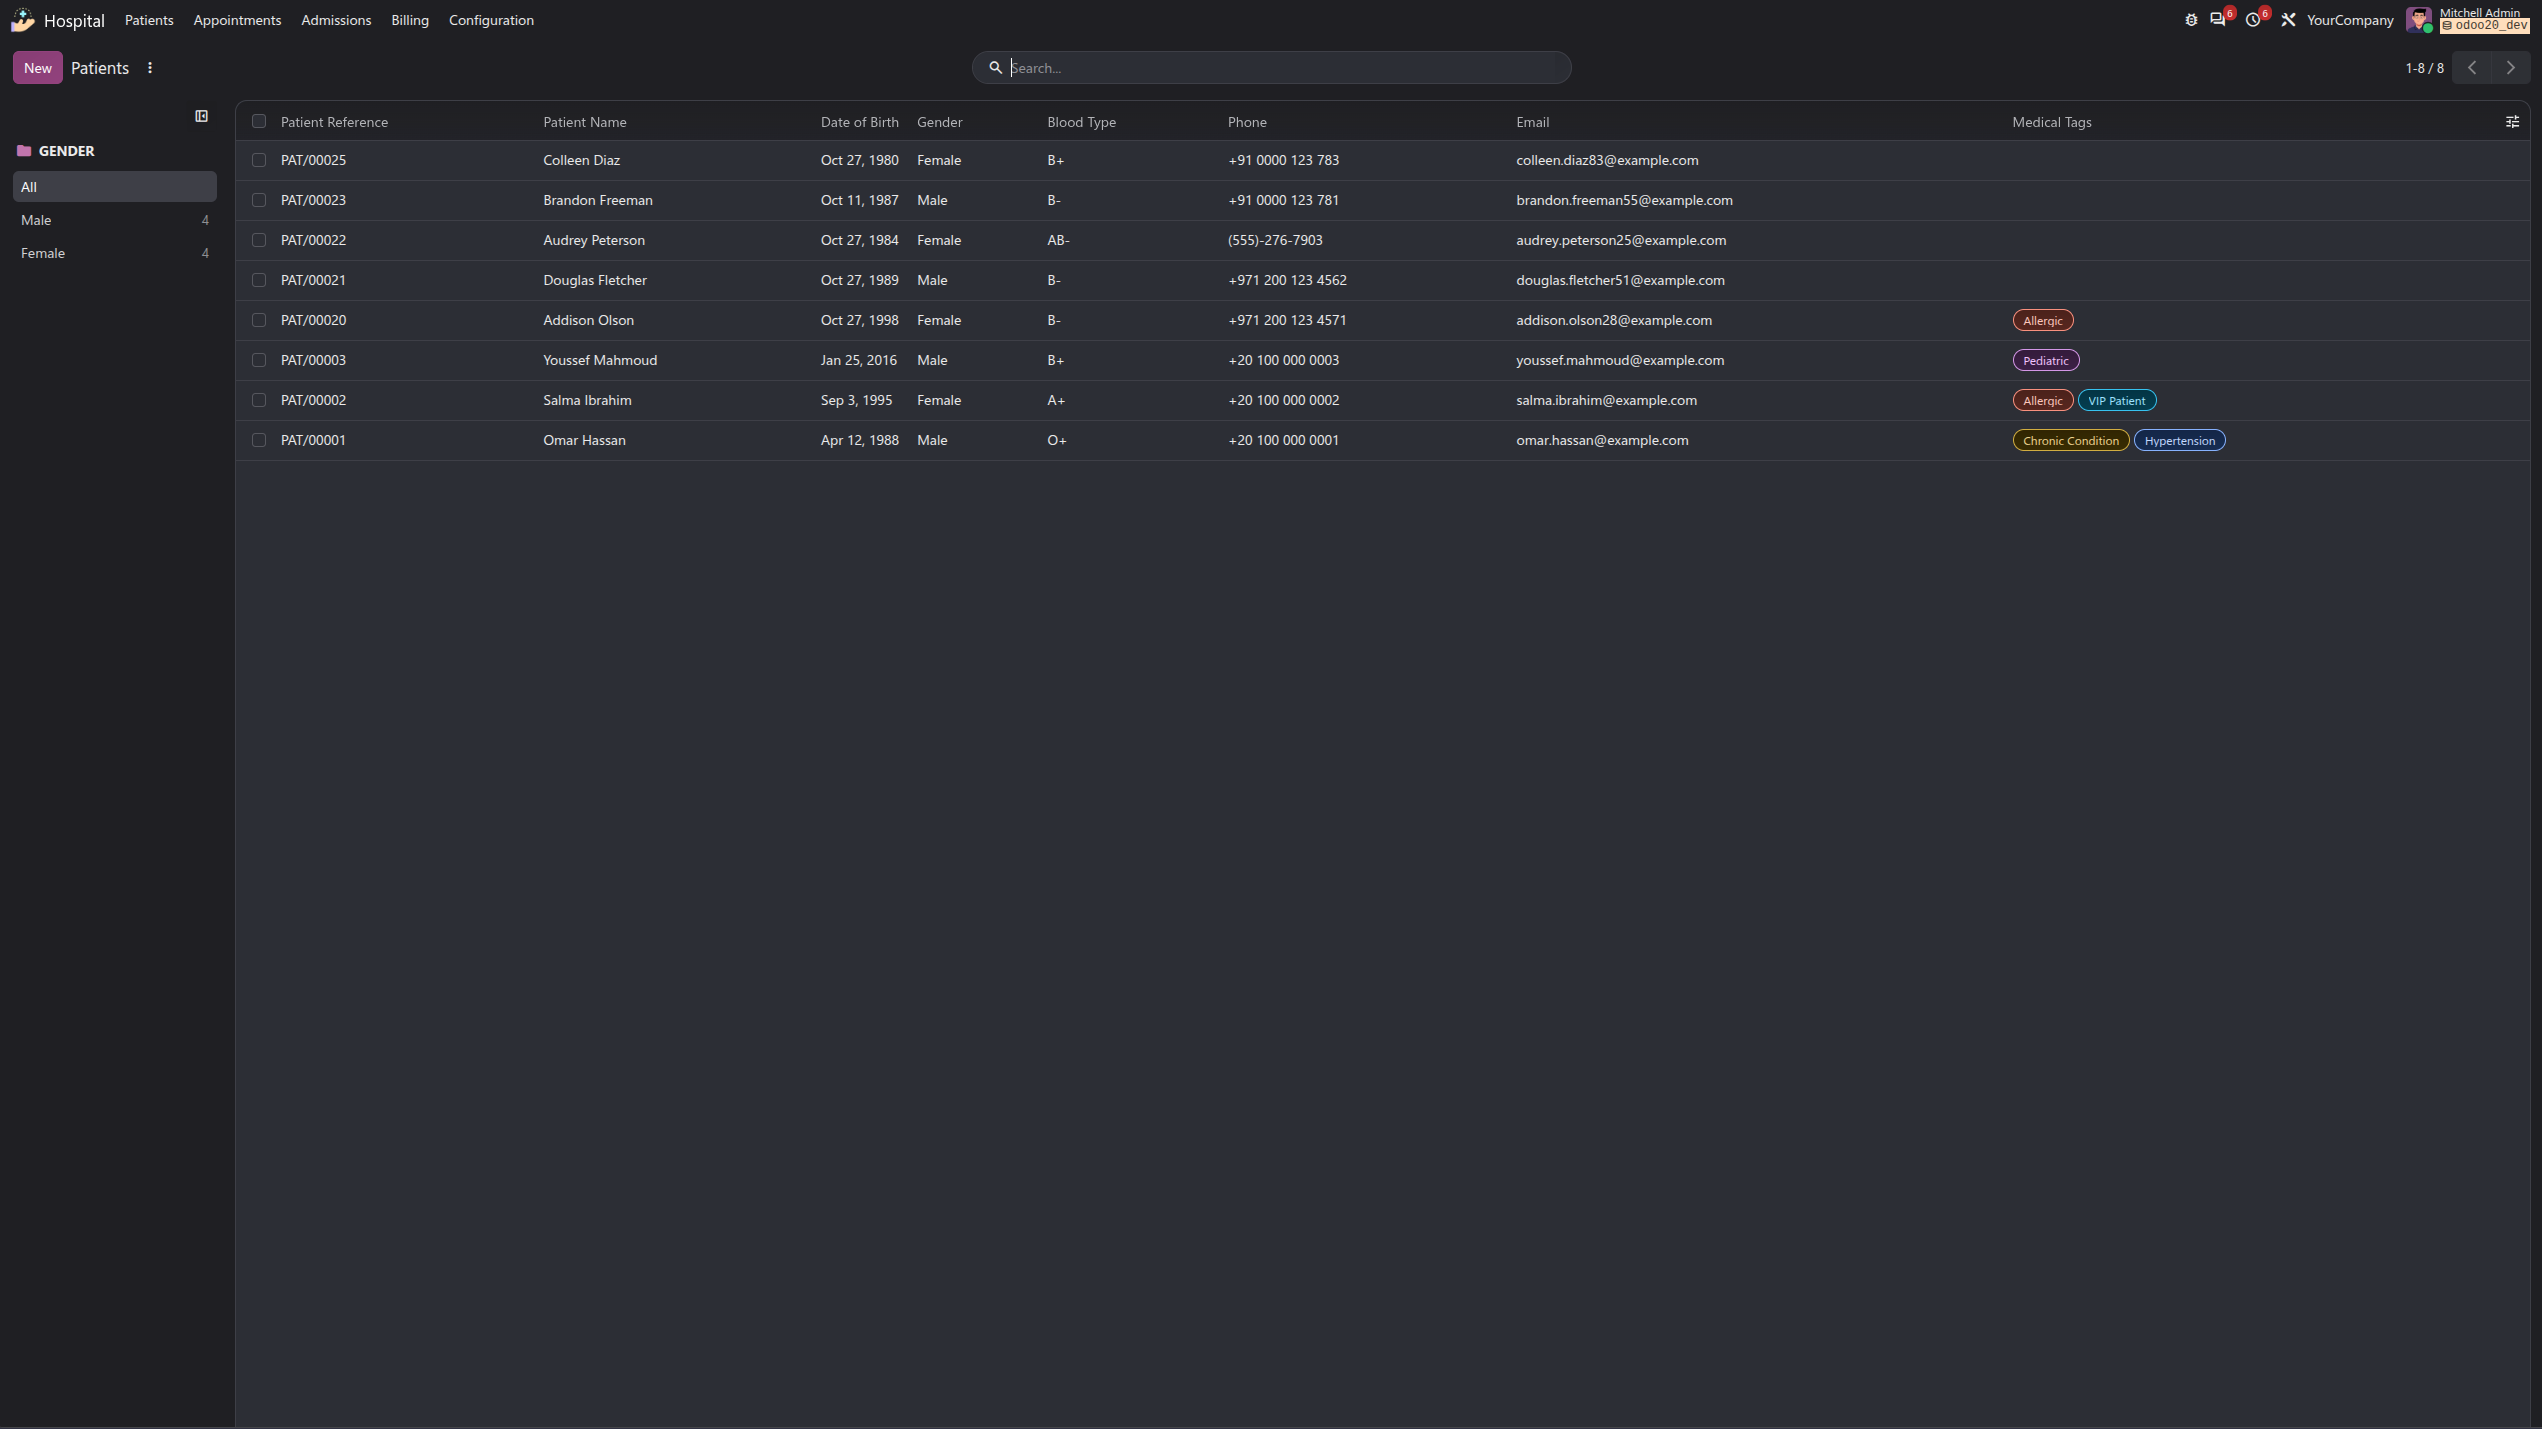
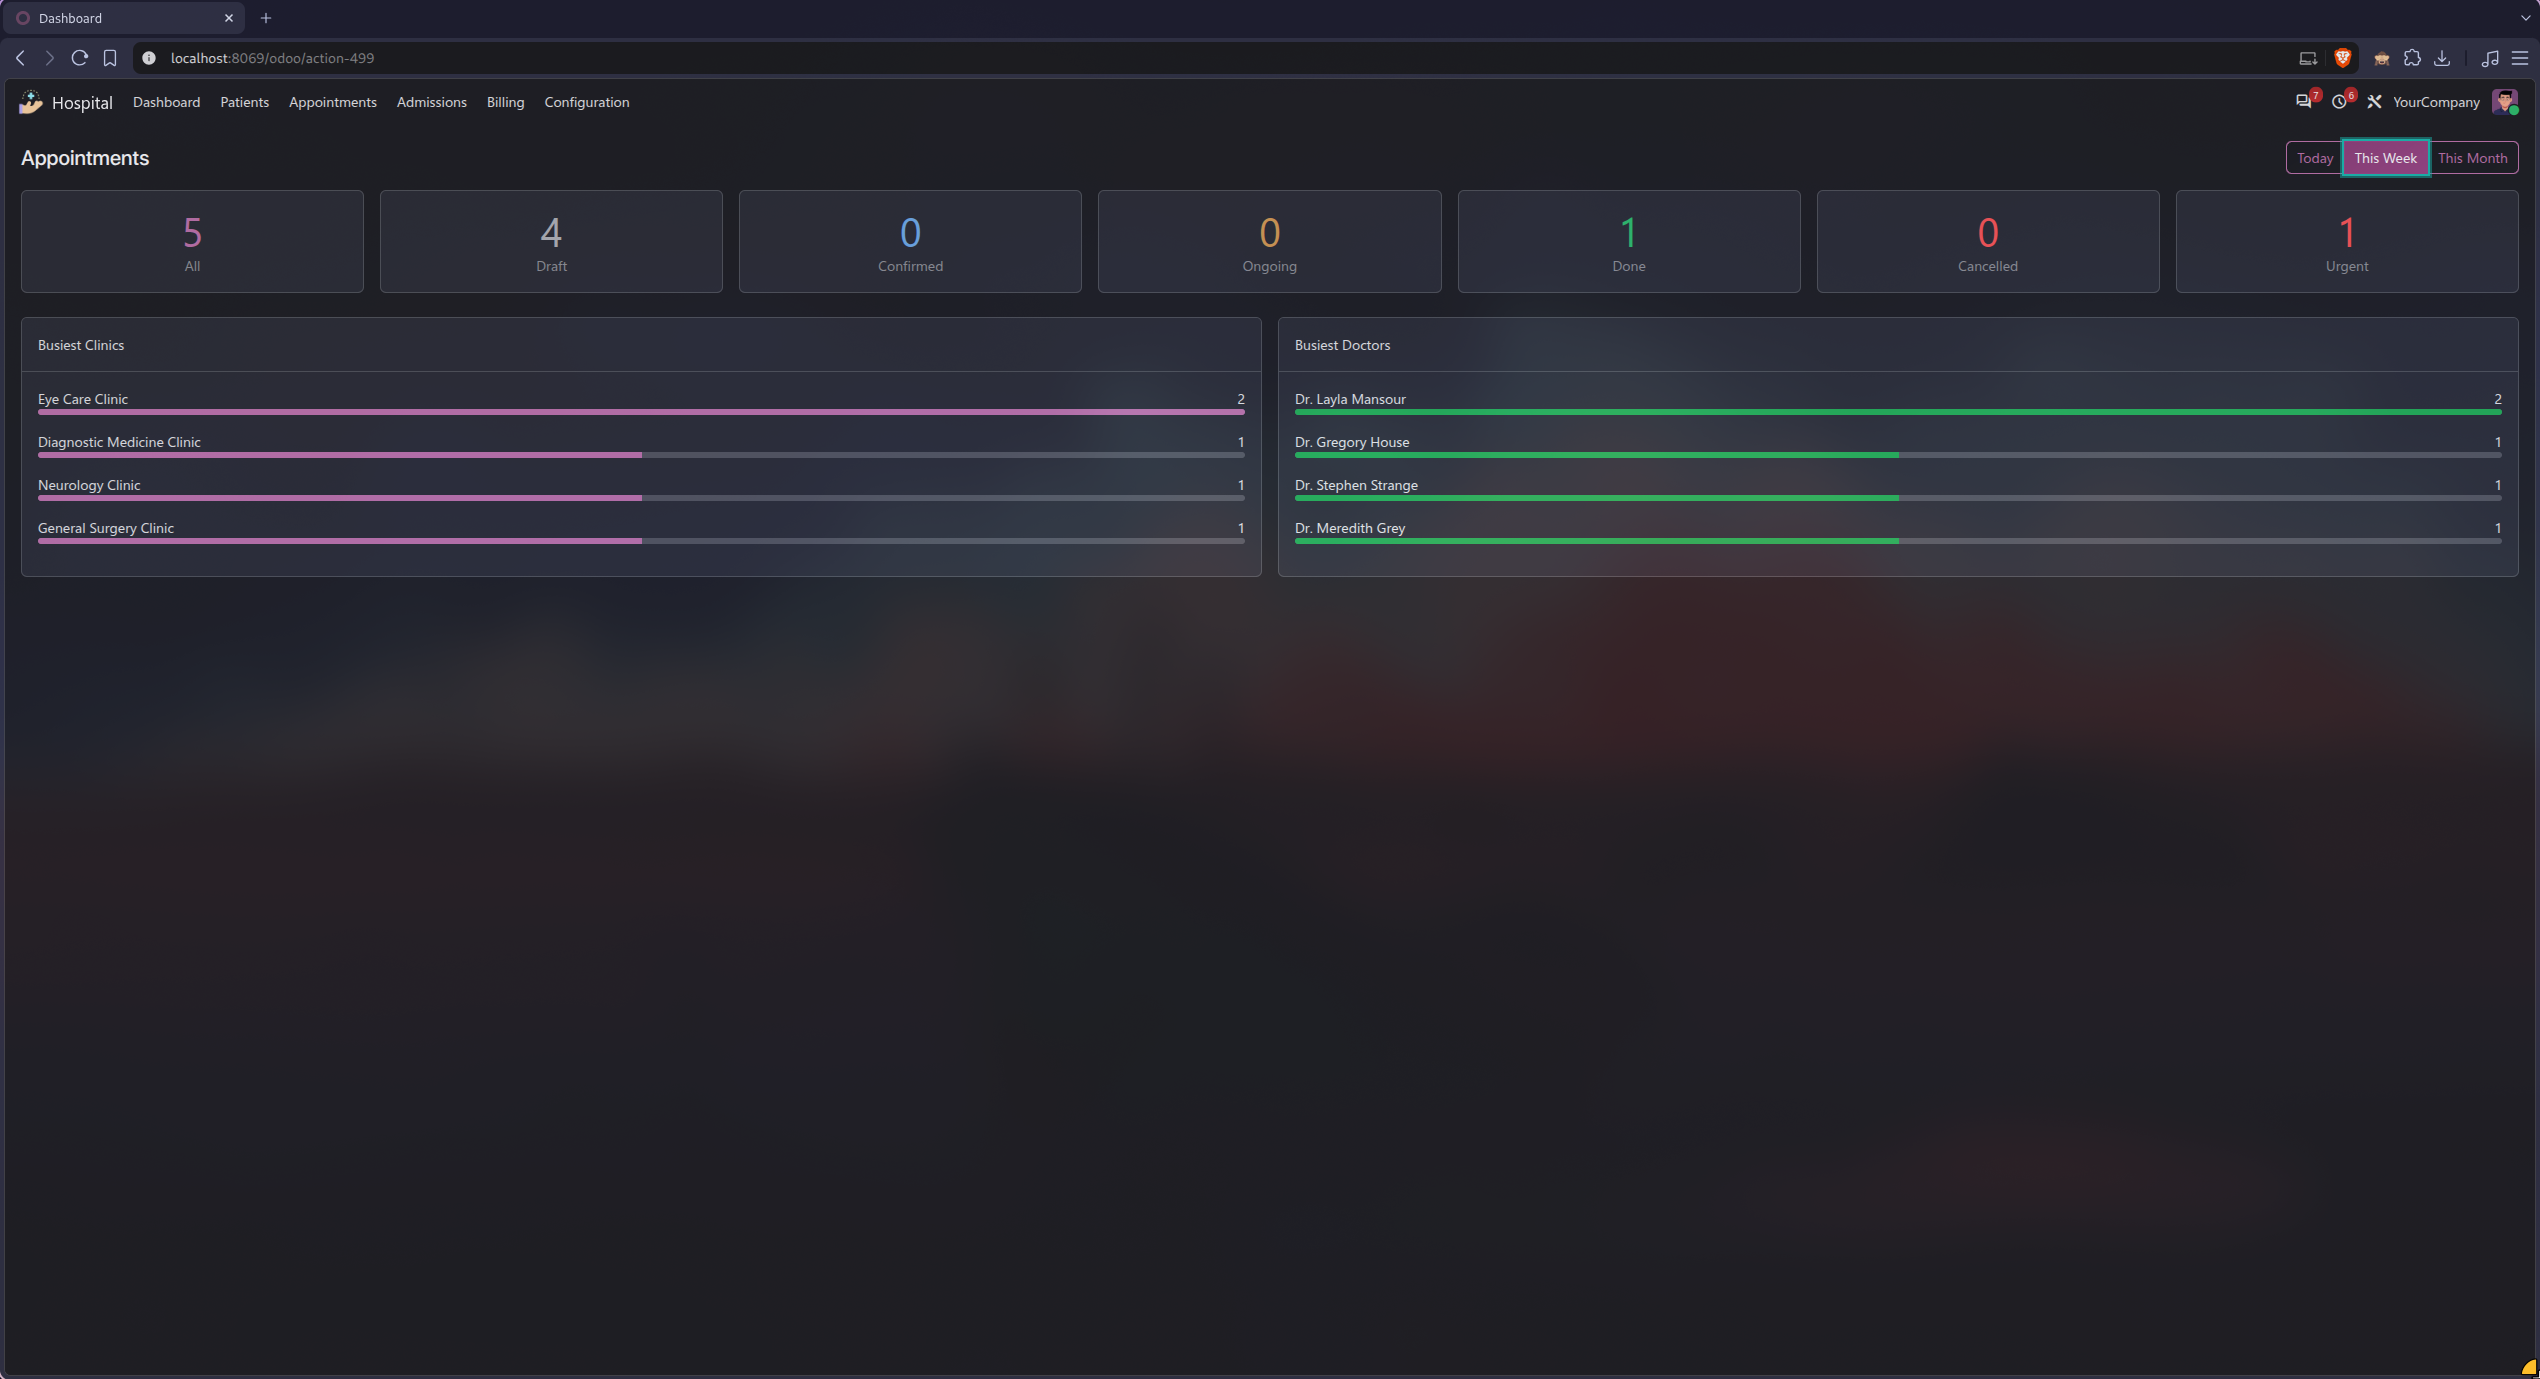
Updated Hospital Module showcase images

Changed region(s): [[0.0, 0.0, 1.0, 1.0], [0.0, 0.9978, 0.0933, 1.0]]

diff --git a/index.html b/index.html
@@ -503,11 +503,10 @@
       <div class="shots" data-carousel aria-label="Odoo Hospital Management Module screenshots">
         <div class="shots-frame">
           <figure class="slide ph is-active"><img src="assets/demo.gif" alt="Module Walkthrough"></figure>
-          <figure class="slide ph"><img src="assets/hospital-1.png" alt="Patients list view"></figure>
-          <figure class="slide ph"><img src="assets/hospital-2.png" alt="Detailed hospital patient record"></figure>
-          <figure class="slide ph"><img src="assets/hospital-3.png" alt="Appointments list view"></figure>
+          <figure class="slide ph"><img src="assets/hospital-1.png" alt="Appointments Dashboard"></figure>
+          <figure class="slide ph"><img src="assets/hospital-2.png" alt="Patients list view"></figure>
+          <figure class="slide ph"><img src="assets/hospital-3.png" alt="Detailed hospital patient record"></figure>
           <figure class="slide ph"><img src="assets/hospital-4.png" alt="Appointments calendar view"></figure>
-          <figure class="slide ph"><img src="assets/hospital-5.png" alt="Appointment detailed form view"></figure>
         </div>
         <div class="dots" role="tablist" aria-label="Choose screenshot"></div>
       </div>
